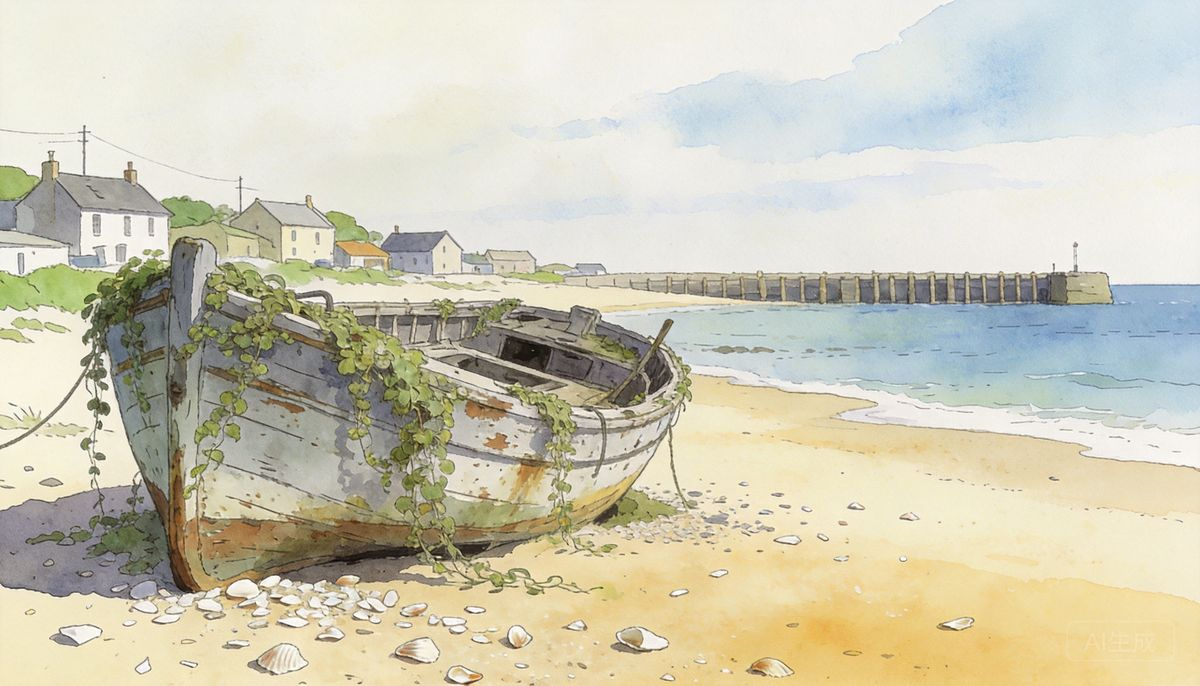
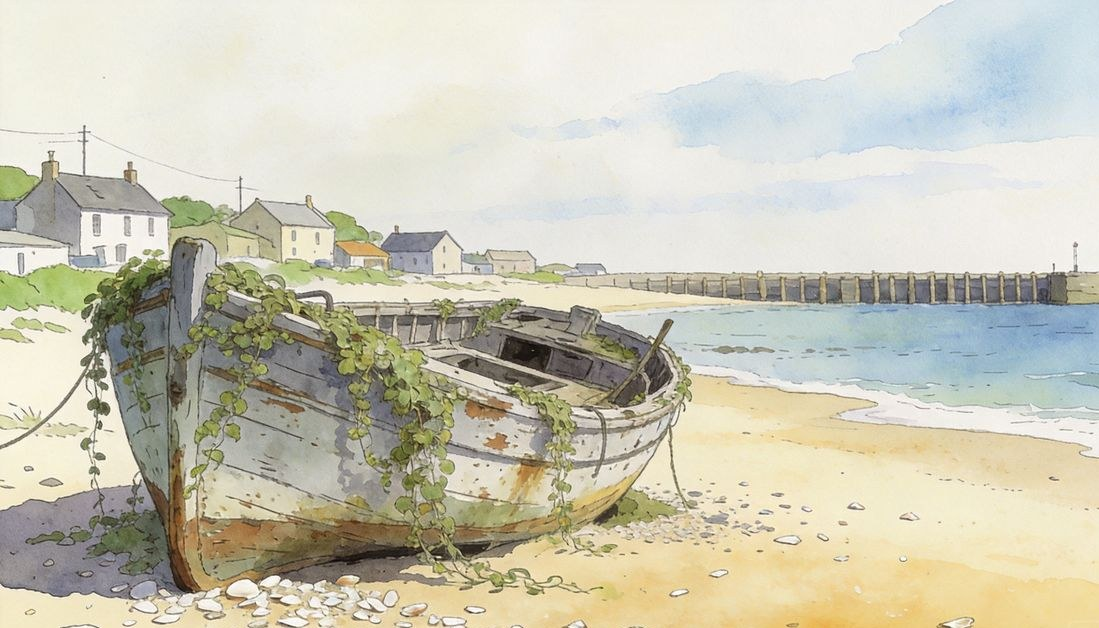
feat: 首页标杆改版——岛民名册/世界状态行/样张日记/日报带脸/去AI水印/微动效
- 第一屏新增岛民名册：12 只 NPC 头像叠排 + 「就等一位新邻居」，点击进猫主页
- slogan 下新增世界运转行：第 N 天 · 天气 · 岛上住着 N 只猫（WorldState 实时）
- 新增「从岛上寄来的一页」：当日 NPC 真实日记按手账样式展示（胶带贴纸 CSS），
  配「每天早上八点，你的猫也会写下这样的一页」
- 日报带脸：每条新闻附当事猫头像可点；缺对象名的历史残句不上首页
- 场景图裁掉右下「AI生成」水印（boat/dock/home/lighthouse/reef，保持 1.75:1）
- 微动效：印章按钮按压缩放、场景卡 hover 浮起、头像 hover 上浮，无阴影无发光

Claude-Session: https://claude.ai/code/session_01YATfjZvsDDQWMvnttmcP9Y

diff --git a/app/page.tsx b/app/page.tsx
@@ -3,25 +3,30 @@ import Image from "next/image";
 import { CatAvatar } from "@/components/CatAvatar";
 import { Track } from "@/components/Track";
 import { getViewerId } from "@/lib/identity";
-import { getIslandNews, getViewerCat } from "@/lib/queries";
+import { getHomeShowcase, getIslandNewsWithCats, getViewerCat } from "@/lib/queries";
 
 export const dynamic = "force-dynamic";
 
 // 首页：像翻开一本猫的生活绘本，不解释技术（v0.7 视觉去 AI 化）
+// 标杆三件事：让访客看到猫（岛民名册）、看到世界在运转（天数/天气）、看到成品（样张日记）。
 
 export default async function HomePage() {
   const viewerId = await getViewerId();
   const myCat = await getViewerCat(viewerId);
-  const news = (await getIslandNews(3)).slice(0, 3);
+  const { world, npcs, totalCats, sampleDiary } = await getHomeShowcase();
+  // 历史坏数据兜底：缺了对象名的残句（"向借钱被拒"）不上首页
+  const news = (await getIslandNewsWithCats(6)).filter((n) => !n.content.includes("向借钱")).slice(0, 3);
+  const stripCats = npcs.slice(0, 12);
+  const moreCount = totalCats - stripCats.length;
 
   return (
-    <div className="space-y-10 py-4">
+    <div className="space-y-12 py-4">
       <Track events={[{ name: "landing_view", props: { hasCat: Boolean(myCat) } }]} />
 
-      {/* 第一屏：主视觉 + 一句话 + 一个动作 */}
+      {/* 第一屏：主视觉 + 一句话 + 世界在运转 + 一个动作 + 岛民名册 */}
       <div className="text-center">
         <div className="relative mx-auto max-w-md overflow-hidden rounded-lg border border-line">
-          <Image src="/scenes/dock.jpg" alt="猫啊岛的码头" width={1200} height={686} priority className="w-full" />
+          <Image src="/scenes/dock.jpg" alt="猫啊岛的码头" width={1099} height={628} priority className="w-full" />
         </div>
         <h1 className="font-title mt-6 text-2xl font-bold leading-relaxed">
           领养一只会记住你、
@@ -31,6 +36,11 @@ export default async function HomePage() {
         <p className="mt-3 text-sm leading-relaxed text-ink-soft">
           当你离开后，它仍会在岛上继续生活。
         </p>
+        {world.day > 0 && (
+          <p className="mt-2 text-xs tracking-wide text-ink-faint">
+            今天是岛上的第 {world.day} 天 · {world.weather} · 住着 {totalCats} 只猫
+          </p>
+        )}
         {myCat ? (
           <Link href="/my-cat" className="stamp-btn mt-6 inline-flex items-center gap-2">
             <CatAvatar id={myCat.id} size={26} portraitUrl={myCat.portraitUrl} />
@@ -40,6 +50,36 @@ export default async function HomePage() {
           <Link href="/adopt" className="stamp-btn mt-6 inline-block">
             去码头接它
           </Link>
+        )}
+
+        {/* 岛民名册：先看到猫，才会想认识猫 */}
+        {stripCats.length > 0 && (
+          <div className="mt-9">
+            <div className="flex items-center justify-center">
+              {stripCats.map((c, i) => (
+                <Link
+                  key={c.id}
+                  href={`/cats/${c.id}`}
+                  title={c.name}
+                  className={`${i > 0 ? "-ml-3" : ""} inline-block rounded-full border-2 border-paper bg-paper transition-transform duration-200 hover:z-10 hover:-translate-y-1.5`}
+                  style={{ zIndex: i }}
+                >
+                  <CatAvatar id={c.id} size={38} portraitUrl={c.portraitUrl} />
+                </Link>
+              ))}
+              {moreCount > 0 && (
+                <span
+                  className="-ml-3 inline-flex h-[38px] w-[38px] items-center justify-center rounded-full border-2 border-paper bg-paper-deep text-[11px] text-ink-soft"
+                  style={{ zIndex: stripCats.length }}
+                >
+                  +{moreCount}
+                </span>
+              )}
+            </div>
+            <p className="mt-2.5 text-xs text-ink-faint">
+              {myCat ? "岛上的邻居们，点开认识一下" : "他们都已经在岛上住下了，就等一位新邻居"}
+            </p>
+          </div>
         )}
       </div>
 
@@ -52,9 +92,9 @@ export default async function HomePage() {
             { img: "/scenes/home.jpg", title: "它会记住你", text: "你留下的话它都记得，第二天会告诉你听没听、为什么。" },
             { img: "/scenes/lighthouse.jpg", title: "它每天带回新的故事", text: "岛上有秘密，也有普通的日子。每天早上八点更新。" },
           ].map((s) => (
-            <div key={s.title}>
+            <div key={s.title} className="scene-float">
               <div className="overflow-hidden rounded-lg border border-line">
-                <Image src={s.img} alt="" width={600} height={343} className="w-full" />
+                <Image src={s.img} alt="" width={1099} height={628} className="w-full" />
               </div>
               <h2 className="font-title mt-3 font-bold">{s.title}</h2>
               <p className="mt-1 text-xs leading-relaxed text-ink-soft">{s.text}</p>
@@ -63,15 +103,47 @@ export default async function HomePage() {
         </div>
       </div>
 
+      {/* 样张日记：真实的一页，胜过所有功能介绍 */}
+      {sampleDiary && (
+        <div>
+          <hr className="paper-rule" />
+          <div className="mx-auto mt-8 max-w-md">
+            <p className="font-title text-center text-sm text-ink-soft">从岛上寄来的一页</p>
+            <div className="diary-page mt-4 px-5 pb-5 pt-6">
+              <div className="flex items-center justify-between text-xs text-ink-faint">
+                <span>岛上的第 {sampleDiary.day} 天</span>
+                <Link
+                  href={`/cats/${sampleDiary.cat.id}`}
+                  className="inline-flex items-center gap-1.5 text-ink-soft transition-colors hover:text-brick"
+                >
+                  <CatAvatar id={sampleDiary.cat.id} size={22} portraitUrl={sampleDiary.cat.portraitUrl} />
+                  {sampleDiary.cat.name}的日记
+                </Link>
+              </div>
+              <p className="font-diary mt-3 text-[15px] leading-loose text-ink">{sampleDiary.content}</p>
+            </div>
+            <p className="mt-3 text-center text-xs text-ink-faint">每天早上八点，你的猫也会写下这样的一页。</p>
+          </div>
+        </div>
+      )}
+
       {/* 岛报一角 */}
       {news.length > 0 && (
         <div className="newspaper px-4 py-3">
           <p className="font-press text-center text-sm font-bold">猫啊岛日报</p>
+          {news[0] && <p className="mt-0.5 text-center text-[11px] text-ink-faint">第 {news[0].day} 天 · 岛上要闻</p>}
           <hr className="paper-rule my-2" />
-          <ul className="space-y-1.5 text-sm leading-relaxed text-ink">
+          <ul className="space-y-2.5 text-sm leading-relaxed text-ink">
             {news.map((n) => (
-              <li key={n.id} className="font-diary">
-                {n.content}
+              <li key={n.id} className="flex items-start gap-2.5">
+                {n.cat ? (
+                  <Link href={`/cats/${n.cat.id}`} title={n.cat.name} className="mt-0.5 shrink-0">
+                    <CatAvatar id={n.cat.id} size={24} portraitUrl={n.cat.portraitUrl} />
+                  </Link>
+                ) : (
+                  <span className="mt-0.5 w-[24px] shrink-0" />
+                )}
+                <span className="font-diary">{n.content}</span>
               </li>
             ))}
           </ul>

diff --git a/lib/queries.ts b/lib/queries.ts
@@ -65,6 +65,38 @@ export async function getIslandNews(limit = 6) {
   return prisma.islandNews.findMany({ orderBy: [{ day: "desc" }, { createdAt: "desc" }], take: limit });
 }
 
+/** 日报带脸：新闻行附上当事猫（IslandNews 没建外键，手动补一次查询） */
+export async function getIslandNewsWithCats(limit = 6) {
+  const rows = await getIslandNews(limit);
+  const catIds = [...new Set(rows.map((r) => r.catId).filter((id): id is string => Boolean(id)))];
+  const cats = catIds.length
+    ? await prisma.cat.findMany({ where: { id: { in: catIds } }, select: { id: true, name: true, portraitUrl: true } })
+    : [];
+  const byId = new Map(cats.map((c) => [c.id, c]));
+  return rows.map((r) => ({ ...r, cat: r.catId ? (byId.get(r.catId) ?? null) : null }));
+}
+
+/** 首页橱窗：世界状态 + 岛民名册 + 今日样张日记（优先当天的 LLM 手笔，缺则回退最近一篇） */
+export async function getHomeShowcase() {
+  const world = await getWorld();
+  const [npcs, totalCats] = await Promise.all([
+    prisma.cat.findMany({
+      where: { isNpc: true },
+      select: { id: true, name: true, portraitUrl: true },
+      orderBy: { createdAt: "asc" },
+    }),
+    prisma.cat.count(),
+  ]);
+  const diaryQuery = (where: object) =>
+    prisma.diaryEntry.findFirst({
+      where: { generatedBy: "llm", form: "diary", cat: { isNpc: true }, ...where },
+      orderBy: [{ day: "desc" }, { createdAt: "desc" }],
+      include: { cat: { select: { id: true, name: true, portraitUrl: true } } },
+    });
+  const sampleDiary = (await diaryQuery({ day: world.day })) ?? (await diaryQuery({}));
+  return { world, npcs, totalCats, sampleDiary };
+}
+
 export async function getViewerCat(viewerId: string | null) {
   if (!viewerId) return null;
   return prisma.cat.findFirst({ where: { ownerId: viewerId } });

diff --git a/app/globals.css b/app/globals.css
@@ -63,17 +63,20 @@ body {
   border-top: 3px double var(--line);
 }
 
-/* 印章按钮：砖红、微圆角、无阴影无渐变 */
+/* 印章按钮：砖红、微圆角、无阴影无渐变；按下有盖章的手感 */
 .stamp-btn {
   background: var(--brick);
   color: #fdf9f2;
   border-radius: 8px;
   padding: 0.6rem 1.6rem;
   font-weight: 500;
-  transition: background 0.15s;
+  transition: background 0.15s, transform 0.12s;
 }
 .stamp-btn:hover {
   background: var(--brick-deep);
+}
+.stamp-btn:active {
+  transform: scale(0.96);
 }
 .stamp-btn:disabled {
   opacity: 0.55;
@@ -92,6 +95,32 @@ body {
   background: #fbf8f0;
   border-top: 3px double var(--line);
   border-bottom: 3px double var(--line);
+}
+
+/* 场景卡的呼吸感：hover 轻轻浮起，不加阴影不发光 */
+.scene-float {
+  transition: transform 0.35s ease;
+}
+.scene-float:hover {
+  transform: translateY(-4px) rotate(0.4deg);
+}
+
+/* 样张日记页：一页贴在墙上的手账，顶部一截鼠尾草色胶带 */
+.diary-page {
+  position: relative;
+  background: #fffdf6;
+  border: 1px solid var(--line);
+  border-radius: 2px;
+}
+.diary-page::before {
+  content: "";
+  position: absolute;
+  top: -9px;
+  left: 50%;
+  width: 86px;
+  height: 18px;
+  transform: translateX(-50%) rotate(-2deg);
+  background: rgba(138, 155, 124, 0.32);
 }
 
 /* 手账页边批注 */
